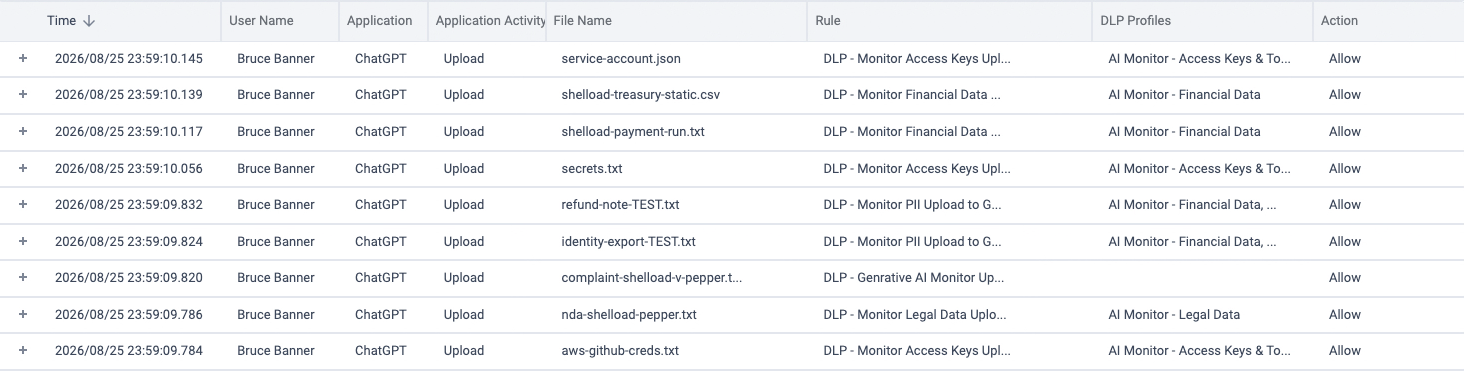
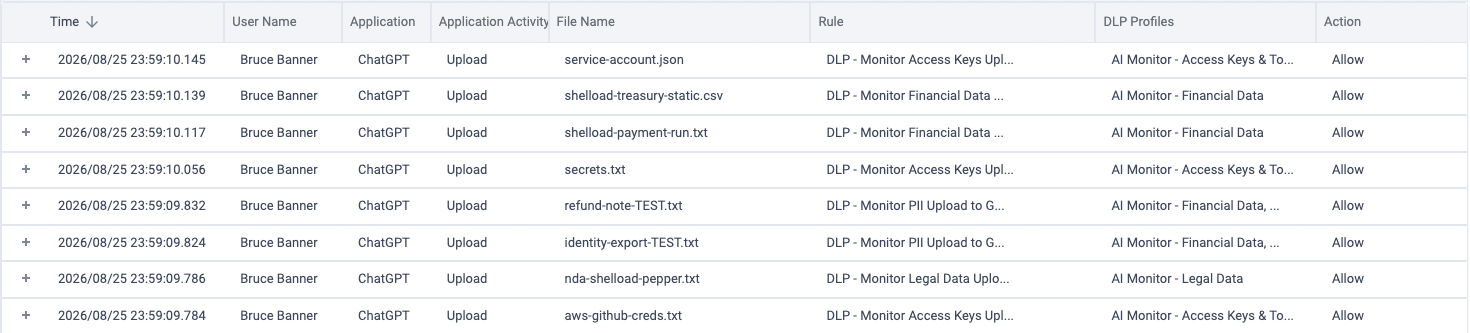
Rebuild: filtered AI DLP events grid

diff --git a/assets/js/search-index.js b/assets/js/search-index.js
@@ -10,7 +10,7 @@ window.UC_SEARCH={
 "access-third-party":"1b 2 2024 2025 2b 300 300m 3rd-party 4 400 600m a above access accounts accumulating across actually after agencies agency all allow allowed an and anti-malware appliance appliances application applications apps are as ask at attempt authorisation authorised away azure b backbone backhauling bank been before beyond block blocked bolt both branded breached breaches browser builds built business but by byod can casb case cases cato cause chain challenges change changes client cloud cohort combine compliant compromised connectivity consistent console constant construct continuously contract contractor contractors control controls cost count counts credentials customers damage damages data datacentre dc de-risking debt-collection decisions deeper demonstration deploy designed developers device devices different directory-managed disabled discover disk dlp do documentation documented down downtime drift drill drop during e-commerce economy edited edr employee enablement encryption end ends enforced enforces enterprise entities environment epp estimated every everything everywhere evidence exactly examples exfiltrating exploited extra fails falling fictional field-ready flipped flow for free from full fwaas gate geo gets give gives global globally go group grows had half hand handful hard have high-profile hit home hosts how huge hybrid identities identity identity-driven idp idp-change if impact implicit implicit-trust in increases inside inspect internal internet into ips is it jaguar jira just kb know lab land lands lateral lawsuits leaked least least-privilege least-privileged leaver legacy level library like live login logistics london looks losses m m365 maintenance management many market marks matters measured membership million months more most movement named naming nearly need needed network networks next no non-authorised non-compliant not nothing objective occupy of offshore on on-premise onboarded once one online only or organisations origin os outlive overly page pairs parties partner partners party patch patching paths pattern pdf people per permissive personal pii pilot pins plane platform policy pop port portal portal-based posture posture-aware present prevention print private profile profiles proof protection prove provider providers published quantified rdp reach reaches recent record refused regional regions remote removing replaces reputational resources rides risk risk-based room rover rows rule rulebase rules running s saas salesforce same scalability scim screenshot se securing security segmentation sensitive server service session should sign-in simple single socket solution space spencer ssh state stop store story supplier suppliers supply supply-chain swg sync tenant than that the their them these they third third-party this threat three through throughout tiles time timestamp to today tooling traffic truist trust two uk unauthorised unexamined universal unknown unlisted unlock unmanaged unmanaged-device unmanaged-laptop up use user user-facing user-scoped users valuation verified verify version via visibility vpn vsocket wan was way web were what which who whole why window with workforce worth would www x1500 you your yourself zero ztna",
 "ai-agentic-security":"1 2 2026 3 a access across act action actions activity acts actually add adopting adoption advanced against agent agentic agents ai ai-fw ai-specific alerted alike all allowed alone alongside an analysis and answer answering any api apis applications applied approval are area arrive arrives arriving as ask assigned assistants at attacker attacks attempt attempts audit authentication auto-discovers automated autonomously aws azure base bases be become bedrock before behaviour blast-radius blind block blocked blocks both browse browser build built business by call calls can capability captures carry case cases catching cato caught centrally chain challenge changes chat-only chatbots classifies claude cloud cma code coded codex coding commands commit complementary complete compliance compound configuration configurations configured connect connected connectors connects consistent console control controls conversation copilot core could cover covers create credentials criteria criterion crm cursor curxecute custom customer-built customers dashboard data decision-making deeper delegated depending deployed detections developer developers did direct directions discover discovered discovery distinction do documentation does don drives during each echoleak enablement end-user endpoint endpoints enforce enforcement engine engineering enterprise environment environments eu evaluate evaluated evaluation events every everything evidence exactly execute exfil exfiltration exists expose exposed exposure extension failure feed file final financial firewall flow for foundry four four-point frameworks from full fully gaps genai generally generation given gives go govern governance governed governing governs guards handling happening happens has header hiding hijacks history home homegrown how human identifiers identity ides impossible in incident including indirect influence injected injection inline inspected inspection inspects install installed instances instead instruction instructions integration integrations interaction interactions internal intervened into introduce intune inventories inventory investigation invocation invocations is it its jailbreak jailbreaks jamf jetbrains july just kandji know knowledge land langchain laptops last launched leak leakage left lenses let level library licence licences like linux list live lives llm local logged logging logic looks low-code machine machine-speed macos making malicious managed manipulate many map match matters may mcp mcps mdm mdr me meet messages microsoft misconfigured mistakes mode model modernisation moment monitor monitor-mode monitoring more most moved multi-turn my name navigation neighbouring networks never new next no no-code nobody not now objective observe of on one open openai or organisation organisations original other output outputs own page pane parameters partner pass path payload pdf permissions person personal pii pilot pivots platform platforms point points policies policy posture print problems production prompt prompts protect protection provider proxy proxying published purpose question questions re reach reaches reads real record recorded records redact redacts redirect regulatory reminder remote repo repos repositories request required requirements resources response responses results review reviews right risks risky rules run running runs runtime s saas same sanctioned say scans schedule scout scouts script sdk se secrets secured securing security see send sensitive sensitive-data sequence server servers session session-level sessions shadow show shows single sits slowing so soc solution someone source sources speed splits spots sprawl stands starts steer step-by-step stops straight streams studio such surface suspicious systems t tagged targeted teams telemetry tell that the their them themselves then they thing third-party this threats three through time tls to today tool tools touch trace traced tracing transparently trigger turned two type types typical typically unapproved unauthorised under unmanaged url use useful user user-facing users via view views violation violations visibility visible vs vulnerabilities walkthrough was watch what where whether which who why windows windsurf wires with without workflow working workstations wrap-up xdr yesterday you your yourself",
 "ai-eu-ai-act":"1 101 106 12 13 15m 16 1689 17 18 19 2 2024 2025 2026 2027 2028 25 250k 26 27 27001 29 3 35m 365 4 40 5 50 5m 6 67 7 9 99 a about absent access achieving across act action activity actually additionally adoption advice after against agentic agreement ai ai-generated ai-literacy all alliance allocation allow allowed almost already alternatives amending amendments among amount an analysis analyzing and angle annex annual anonymise anonymised anonymize anonymize-and-block anonymize-and-monitor answer answered any anyone app applicability application applications applied appliedai applies apply approval approved apps are arrangements art as asked asking asks assessment assessments assign assume at attributable attributes attribution audit aug august authored authorities authority automatically awaiting b backbone backstops ban be becomes before beforehand begins behalf behavioural belong below beneath binds biometric-categorisation block blocked blocking blocks boards bodies both breaches breakdown building builds built business but by c call can cancellation cannot capability capacity care case cases catches catching categories category cato caveat changes chapter chat chatgpt checks ciso cited claims classification classified classifies classify clearly client closing cloud cma combination commission competent complete completed compliance compliant configuration conformity connect console consultation content content-generating context continuous contract contractual contributes control controlling conversation copilot could council counsel count country counts critical-risk cross crosses csa csv current customer customers customisation customising d dashboard dashboards data data-protection date dated dates day dec december decided decides decision deeper deepfakes default defaults deferral delay deliberately delivery depends deployed deployer deployers described designated detectors develop development device digital discipline disclose disclosure disclosures discover discovered discovery distributes distributors dlp dlp-style do docs documentation does domain-level domains domestically dpias dpo duties duty e each editorial education else embedded emotion emotion-analytics emotion-recognition enabled enablement end enforce enforced enforcement enforces engaging ensure entered enterprise enters entirely established estate eu eur-lex european evaluated event events every everyday everyone everywhere evidence evidences evidencing exactly exception exercises explorer export exportable exposed exposure extendable extension extent extra extraterritorial facial-image fall features feb february feed feeding file final findings finds fine firms first flows for force found frequency fria frias from front full fully fundamental fundamental-rights g gap gdpr gemini genai general generally-applicable generated generative global go google govern governance governs gpai gpai-based gpai-provider grace granularity grey groups guidelines had half handoff has have headline headquarters heavily heavy here high high-risk higher hit hold home honest how hq hr human hybrid i identifies if iii impact implementation importers in incidents included including incorrect indicator inference inform information inherits input inside inspect inspected inspection inspects instructions instructions-for-use intact intended interaction interactions internal interplay interpretations into inventories inventory is iso it its itself journal journey july june keep keeps know knowing l label labelling lack lake land lands landscape lane last late law law-firm layer least legal legislative level library licence like line listed literacy live log logged logging logs london long looks lower machine machinery madrid make makes management many mapping march market market-surveillance marking masked matches matters may mean measures meets member member-state microsoft mid-2026 mind misleading model models modification moments monitor monitor-mode monitored monitoring months more most moved moving name named national needed needs network networks never new nis2 no non-high-risk non-use none not notably note nothing notification notifications november now nuanced objective obligation obligations of off-limits office official often omnibus omnibus-deferred omnibus-softened on once one one-number only operate operating operation operations operator or org-classified organisation organisations outcome output output-based outright over oversight overview owe own owned owner owns pack package page parliament partially partner passive pastes patterns pdf penalties penalty pending people per per-app per-group per-interaction per-rule per-user percentage period person personal phases picture pilot place plan platform playbook point points policies policy political pop position posture power practice practices precise presupposes price print private privilege process processes produced products professional profile programme prohibited prohibited-use prompt prompt-level prompts proposed provider provider-side providers provisions public-interest publication published purpose push put puts question questions rate rather reach reaches read readiness real real-time reason reasons recommendation recommended records recurring redirecting regardless regime registration regulated regulation regulator regulatory relaxed relevant remains remote report reports representative required requires research researched reshaped reshapes resources responses restrict retention rights risk risk-scored risky roles rollout row rule rulebase rules run running runway s saas safe-versus-violation saliently same sanctioned say scope scoping scraping screenshot se second security sensitive service services set shadow showing shows side siem signatures silently since site sites six six-month-plus sixteen sku smes so soc socket software solution sourced staff staged stand-alone standalone start starts startups states stays still stream subject substantial substitute such supervision supplying support supporting supporting-evidence supports surprises switches system systematic systems table take target targeted teachable team teams templates tenant terms territory text than that the their them themselves then these they thinks third third-party this those three through tiers time times tls to tomorrow tool tools top total tracker trademark traffic trail training transparency trend trigger turnover turns typically uk uncomfortable under underneath uneven unified union unless unsanctioned untargeted up updated uploads usage use used user users uses using v validate values vendor vendor-generated verify versus via view violation violations visibility volume was wave weeks what when where which while white-labelling who whole whose why will window with wording worker workers workforce working workplace workspace workstreams worldwide worse worth would written yes yet you your ztna",
-"ai-genai-security":"1 2 2-of-3 2025 25 3 4 a about access access-key account accounts accruing action actions acts actually add additional address adopted adoption after afterwards against agentic agents agreements ai all all-or-nothing allow allowed already alternatives an analysis and anonymise anonymised anonymize another answer answered answers any anyone api-based app appear application applications applied approved apps arc are argues around arrived arrives as ask asking assertions assessed assessment assistant assistants at attributed audit auditing auditor auditors automatically aws backbone backstop ban bank baseline be before behaviour behavioural behind beneath beyond blanket block blocked blocking blocks board board-ready both breach breakdown breaking browser browser-level browsers builds business but by bypass can cannot capability card card-data carries casb case cases catching categorise category cato cato-recommended changes chat chatbot chatbots chatgpt chrome chromium classes classifiers classifies classify clear client closer cloud coach coaching code codes combines compare complementary compliance configuration confirm connection console contact contained containing content context continues contractor contracts control controls conversation copilots count counter counts court cover coverage covers created credentials credit critical-risk cross crosses customer dark dashboard dashboards data data-risk day debugged decision decisions declare dedicated deeper deepest default defines deliberately departments deployable deployment depth destination detection detector device devices discover discovered discovery dlp documentation documented documents does doesn domain domain-level domains don drill each earlier early-warning edge editor education eight email embedded employees enabled enablement end end-user enforce enforcement enforces engage engages engine enterprise estate estates evaluated evaluates evaluating events ever every everyday evidence exactly example experiences explaining exported extend extends fail fails falls faster fear features fee-earner feed fictional file file-and-upload files filter financial find finds fine firewall first flows follows for forensics four four-week frameworks free from front gap gated gcp genai generative github gitlab glass global go goes govern governance grid group groups had half happened has have here high higher highest-risk history home how identifiers identities idp if in in-flight in-the-moment indicator ingestion inline inside inspect inspected inspection inspects integrations interact interaction interactions intercepts internal internet into intune inventory investigators is isn it its itself judged just keep keeps key keys know lab landing lands last latest leaks learn leaves left legal let level library licence lifecycle like live lives llm logged logging logs looks makes managed management manually march marcus masked masking match matched matching matter matters methods ml mode modifying monitor monitored monitoring more most mostly move must name named need needed needs network networks never new next nine no no-cost nobody not nothing notice notification notify now number numbers objective of off-net office omar on once one one-off ongoing only opening optional or organisation organisations other otherwise outcome outcomes outright outside over overview own owners packages page pairs partner party passive pasted pastes patents patterns pdf people per per-user period person personal pii platforms playbook plugin point policy pop popularity posture potentially pre-defined pre-existing precedence prerequisites print private priya problem proceeds processes produces product productivity productivity-killing profile profiles prompt prompt-level prompts proof prove proxies published pushed question questions quick rate rather reached reaches real reality receive received recommended records redact redaction redirect redrafted rejected reliably remote report represent reserved resources response restriction reveal review right risk risk-posture route routing rule rulebase rules run rung running s saas safe same sanctioned sase scope se second secured security see sees sensitive separate service set setting setup shadow shadow-ai shifted shifts showing shown shows shrug side signatures site sits snippet so socket solution solved sort source spectrum split stage standalone start starting stating stays steering still succeed such summarised support supported supports survive swift switch synthetic t take takes teach teams tell tells template templates tenant test than that the their them then they third third-party this three through tiers tighten time tls to tokens tool tools top topic total touching traffic travel trust turns types understand unsanctioned up upload uploads upside url-filter url-filter-era usage use used user users using value values ve vendor versus via view viewer violation violations visibility visibly was web week week-3 weekly were what when where which who whole wholesale whom why widely widget wild will with without work working worth yes you your yourself zero",
+"ai-genai-security":"1 2 2-of-3 2025 25 3 4 a about access access-key account accounts accruing across action actions acts actually add additional address adopted adoption after afterwards against agentic agents agreements ai all all-or-nothing allow allowed already alternatives an analysis and anonymise anonymised anonymize another answer answered answers any anyone api-based app appear application applications applied approved apps arc are argues around arrived arrives as ask asking assertions assessed assessment assistant assistants at attributed audit auditing auditor auditors automatically aws backbone backstop ban bank baseline be before behaviour behavioural behind beneath beyond blanket block blocked blocking blocks board board-ready both breach breakdown breaking browser browser-level browsers builds business but by bypass can cannot capability card card-data carries casb case cases catching categorise category cato cato-recommended changes chat chatbot chatbots chatgpt chrome chromium classes classifiers classifies classify clear client closer cloud coach coaching code codes combines compare complementary compliance configuration confirm connection console contact contained containing content context continues contractor contracts control controls conversation copilots count counter counts court cover coverage covers created credentials credit critical-risk cross crosses customer dark dashboard dashboards data data-risk day debugged decision decisions declare dedicated deeper deepest default defines deliberately departments deployable deployment depth destination detection detector device devices discover discovered discovery dlp documentation documented documents does doesn domain domain-level domains don drill each earlier early-warning edge editor education eight email embedded employees enabled enablement end end-user enforce enforcement enforces engage engages engine enterprise estate estates evaluated evaluates evaluating events ever every everyday evidence exactly example experiences explaining exported extend extends fail fails falls faster fear features fee-earner feed fictional file file-and-upload files filter financial find finds fine firewall first flows follows for forensics four four-week frameworks free from front gap gated gcp genai generative github gitlab glass global go goes govern governance grid group groups had half happened has have here high higher highest-risk history home how identifiers identities idp if in in-flight in-the-moment indicator ingestion inline inside inspect inspected inspection inspects integrations interact interaction interactions intercepts internal internet into intune inventory investigators is isn it its itself judged just keep keeps key keys know lab landing lands last latest leaks learn leaves left legal let level library licence lifecycle like live lives llm logged logging logs looks makes managed management manually march marcus masked masking match matched matter matters methods ml mode modifying monitor monitored monitoring more most mostly move must name named need needed needs network networks never new next no no-cost nobody not nothing notice notification notify now number numbers objective of off-net office omar on once one one-off ongoing only opening optional or organisation organisations other otherwise outcome outcomes outright outside over overview own owners packages page pairs partner party passive pasted pastes patents patterns pdf people per per-user period person personal pii platforms playbook plugin point policy pop popularity posture potentially pre-defined precedence prerequisites print private priya problem proceeds processes produces product productivity productivity-killing profile profiles prompt prompt-level prompts proof prove proxies published pushed question questions quick rate rather reached reaches real reality receive received recommended records redact redaction redirect redrafted rejected reliably remote report represent reserved resources response restriction reveal review right risk risk-posture route routing rule rulebase rules run rung running s saas safe same sanctioned sase scope se second secured security see sees sensitive separate service set setting setup shadow shadow-ai shifted shifts showing shown shows shrug side signatures site sits snippet so socket solution solved sort source spectrum split stage standalone start starting stating stays steering still succeed such summarised support supported supports survive swift switch synthetic t take takes teach teams tell tells template templates tenant test than that the their them then they third third-party this three through tiers tighten time tls to tokens tool tools top topic total touching traffic travel trust turns types understand unsanctioned up upload uploads upside url-filter url-filter-era usage use used user users using value values ve vendor versus via view viewer violation violations visibility visibly was web week week-3 weekly were what when where which who whole wholesale whom why widely widget wild will with without work working worth yes you your yourself zero",
 "ai-homegrown-apps":"2026 23 a about accessed act action actions activate active add advice against agent agentic agents ai ai-powered ai-specific ai-usage alert alerts alike all allow allows always an analysis and anonymising anonymize answer answers anthropic any anything api app application applications applies apps are arrive as ask asked asker asks assessment assistants at attacker attacks attempt attempts attributed attribution audit auditing authorisation automatically azure bases be becomes bedrock before behaviour benign between block blocked blocked-event blocking blocks bot both broad build build-out building builds business by bypass call calls can carrying case cases categories cato centrally challenge changed changes charts chatbot chatbots claude click cloud cma coaxed code collide community company compliance component confidence configured configuring confirm connected console content control controls conversation copilot copy count counts cover coverage create creating creation credentials crm cross-guard custom customer customer-facing data decide deeper define deliberately demands deploy deployment design designed detail details detection detections detector detectors detects did direction directly documentation documented does don doorway drill driven each either email embedded embedding employee employee-facing employment enable enablement end endpoint endpoints enforce enforcement enforces enforcing engine entity environment erp eu evaluated evaluates eventually every evidence exact exclusions existing exists experiences explorer extract false fast features fewer finally finance financial find first fits flow for forward forwarded forwards from full gaps gateway gateways gemini genai generates getting given go goes gone google governance granular group guard guardrails guards guidance harmful has haven headers helm hidden higher home homegrown host hosting hosts how hr identifiers if ignore in in-flight inappropriate incident including individual information injection inline inside inspection instructions integrate integrating integration integrations intent interaction interactions intercepting intercepts interfaces internal internet into investigation invocation invocations is it iterate its itself jailbreak jailbreaks judge july justified kb keeping keeps key keys knowledge known-benign kubernetes lands language later leakage leave leaves let levels library licences licensing like list lists litellm live lives llm llms locally locatable logging logic logs longer looks make managed manifests manipulate manipulation map mapped match matters may meaning medical migrated minimal mode model models moment monitor monitoring morning move much multi-turn must name-matched natural needs networks never new no nobody not note nothing obfuscation objective obligations of offending offered offers on once one ones only open openai openai-compatible option optional or organisation organisation-specific organisations other outcome outpost outposts over overview owasp own page pairing pairs partner passes paste pasted path pattern payloads pci pdf per per-agent per-guard per-profile per-user performs permission personal phi pick pii pilot places platform playground plus point police policy position positives post-call pre-call pre-july-2026 precision predefined prevails print priya process production products profile profiles promotes prompt prompts protection providers provides proxy public publicly published puts queryable rag rate rbac reaches reaching read real record recorded records recruitment redact redacted redacts regardless regex regulated regulations relevant remember report representative request required requires residency resources response responses result results returns revealing review right risk role-based row rule rules run runtime s safeguards safely safety said same sample scans scenarios scope scoped se secrets section securing security see segmentation select self-hosted send sensitive sent separate service session sessions set several shipped shipping should shows simulation since single snippet so soc solution someone sources specific spot sprint start started starts still stops store stricter string such support supports surer system systems t talks team teams tell test tested that the their then these they this three through tighten time timestamps to tomorrow tonight tool top topics traffic trail tune tuned turns type unchanged unintended until usage use used user users usually validate values vector verdict versa vice view viewing violated violation violations virtual visibility waf was ways what whatever when where which while who whole whose why wins wired with without workflows working would write xdr you your yourself zero",
 "ai-legal-genai":"1 2 3 4 a account accounts across address agreements ai ai-governance ai-usage all allowed already an and anonymised anonymises anonymize another answer any anything app application applied apps are artefact as asked asking assessed assessment assistant associate assumption at attorney attributed audit backbone backs backstop ban be because become before behaviour being block blocked blocks both breached broken browser bundle business but by bypass can cannot capability carried carries carry case cases category cato caught chat chatbot chatgpt classifiers classifies clause clauses client client-facing client-identifying clients coexist collide committee compliance concentrates confidential confidentiality configuration conflicting console content continues contracted control controlled controls conversation copilot could count counterparty counts court covers criterion-three crosses dashboards data decides decision deeper delivers demand demo depends deploy design details detect devices differ difficulty disclosure discover discovery dlp do documentation documented documents does don down draft drafting each edge email enable enabled enablement end endpoint enforces engagement engine enough entering entirely estate ethical ethical-wall ethical-walled events every evidence evidencing exactly existing exists expect export exportable exposed extreme fact facts fails fee-earner fee-earners feeding firm firm-wide firms first for forbid found foundations four from front gain genai generative gets glass global go govern governance grade group groups guidelines hand hands harder has have heavily here home honour how identifiers idp ids if in in-flight including increasingly individual information inspect inspecting inspection inspects instinctive intact interaction internal into inventories is isn it its jeopardised just keep know lands law lead leave leaves legal legal-vertical let letter level library like live lives log logged looks lose map mapping marcus market mask masked material matter matters member middle minimum mirror mirrors ml model moment monitor monitored monitors must name names naming networks never new next no no-cost not nothing notice notification number numbers objective ocg of off-limits on on-net one only onto open optional or out outcome outlook outright outside outside-counsel over overall overview own page pages partner party passed passively paste patents path pdf people per per-app per-client per-department per-group per-matter per-user permit persists personal personal-tier pick pilot plainly platform plugin point policy pop posture powers practice precedence prerequisites pressures print private privilege privileged problem proceed produce produced productivity profession professional profile profiles promise prompt prompts proposing protection prove provider public pull pushed pushes puts question questions quietly rachel rate reach reached reaches reading readout reads real received recommended recruitment redact redacted redaction redacts refuse regulator regulators remains repeat report require research resources response responsible restrict restricted review reviews risk risking risky rule rules run running s safeguards safer said same sanctioned scope scoped scoping se security see seeds sensitive sent set shadow shadow-ai show side simply single singles so solution some something source sra staff stage staged stages stance start starts stating still stop stresses substantiate such summarise switch t take talent team technology tells terms that the their them then they third third-party this three through time tips tls to tokens tomorrow too tool tools touches traffic trail transfer transfers true turns twice two typed under underlying undermine understand up uploads usage use used user users uses value values via violation visibility volume waiving walls we week what whatever when where whether which who whoever whole whom whose why window with without working worth would written you your",
 "management-api-automation":"12 a account accountid acquired acquisition ad-hoc adds after against agility all alongside already altitude an analytics and any anything api api-driven appear application applied apply are around as ask at audit automate automation back backbone be because becomes beyond both branch bristol built bulk business by can case cases cato catocli catonetworks cd change changes ci cli click click-ops clicking clicks cloud cma code collector com command configuration connectivity console console-authored consume continuously control converges create custom customers data days declare deeper definitions deliver deploy deployed destroy did diff diffed documentation does driven drives during effect either else enablement entire entities entity entitylookup estate events eventsfeed every everything executes executive exercises exporting fans faster feed feeds firewall first flow for forever from generate git github glasgow global glue go goes gone graphql grow had hand have head-count here hit-count home hour hours how hundred hundreds ideal identical if in install integration integrations interfaces internal into is it itself itsm jobs lands language last library like live lives long looked looks lookups m madrid make management manual many matters me mean means merge minutes mistakes module monitoring monthly more multi-site mutate mutation needed needs network networks new no not objective of office official on once one only operable operating operational or organisation other out over overnight page partner pdf peer peer-reviewed people per perfect person pilot pip pipeline plan platform play plus policy pov-tf print private problem production programmatic provider publish published pull python quarter quarters query quick realistic registry remember remembers repeat repetitive report reporting reports repository request resources retail revert revertable reverted review reviewed revision rollback rolled rollout rule rulebase rules run runner runs same scale schedule scheduled screenshot-and-paste screenshots scripted scripts se security sentinel separate sequence shell shows siem sit site sites sits snowflake so soc socket sockets solution speed splunk step straight strategy stream streams subset suits surface tagged take teams telemetry template templated tens terraform tf than that the them themselves then there this three through time to toolchain tooling tools touched trail twenty two type typo update use usually version version-controlled visibility walk wan watches way ways what whatever while whoever why with would wraps writes wrong you your your-account-id yourself zero zero-touch",

diff --git a/usecases/ai-genai-security.html b/usecases/ai-genai-security.html
@@ -361,8 +361,8 @@
             <figcaption>The published User Interaction Policy rulebase: each rule pairs an IdP source group and app scope with an engine profile and an action &mdash; here Anonymize &amp; Block &mdash; with violation counts accruing per rule. (The notification template is set inside the rule editor.)</figcaption>
           </figure>
       <figure class="shot">
-            <img src="../assets/img/cma-genai-dlp-events-grid.png" alt="CMA events grid filtered to the AI DLP monitor rules: nine ChatGPT upload events for one pilot user, each row naming the file, the matching rule and DLP profile across PII, financial data, access keys and legal data, every action Allow" loading="lazy">
-            <figcaption>The match report the data owners actually review (lab tenant, fictional identities and synthetic test files): nine uploads to ChatGPT, each attributed to a user, a file, a rule and a profile &mdash; eight matching the four recommended rules, one the tenant&#39;s pre-existing GenAI monitor rule &mdash; and every action <strong>Allow</strong>. Monitor mode is the whole point in week one; the grid tells you which data classes travel to AI apps before anyone argues about blocking them.</figcaption>
+            <img src="../assets/img/cma-genai-dlp-events-grid.png" alt="CMA events grid filtered to the AI DLP monitor rules: eight ChatGPT upload events for one pilot user, each row naming the file, the matching rule and DLP profile across PII, financial data, access keys and legal data, every action Allow" loading="lazy">
+            <figcaption>The match report the data owners actually review (lab tenant, fictional identities and synthetic test files): eight uploads to ChatGPT across all four recommended rules, each attributed to a user, a file, a rule and a profile &mdash; and every action <strong>Allow</strong>. Monitor mode is the whole point in week one; the grid tells you which data classes travel to AI apps before anyone argues about blocking them.</figcaption>
           </figure>
       <figure class="shot">
             <img src="../assets/img/cma-genai-dlp-forensics.png" alt="Two CMA panels: a confirmation dialog warning that evidence may contain sensitive information and that access is logged, and a Forensics panel showing match 2 of 3 with an AWS access key highlighted in the file snippet" loading="lazy">
